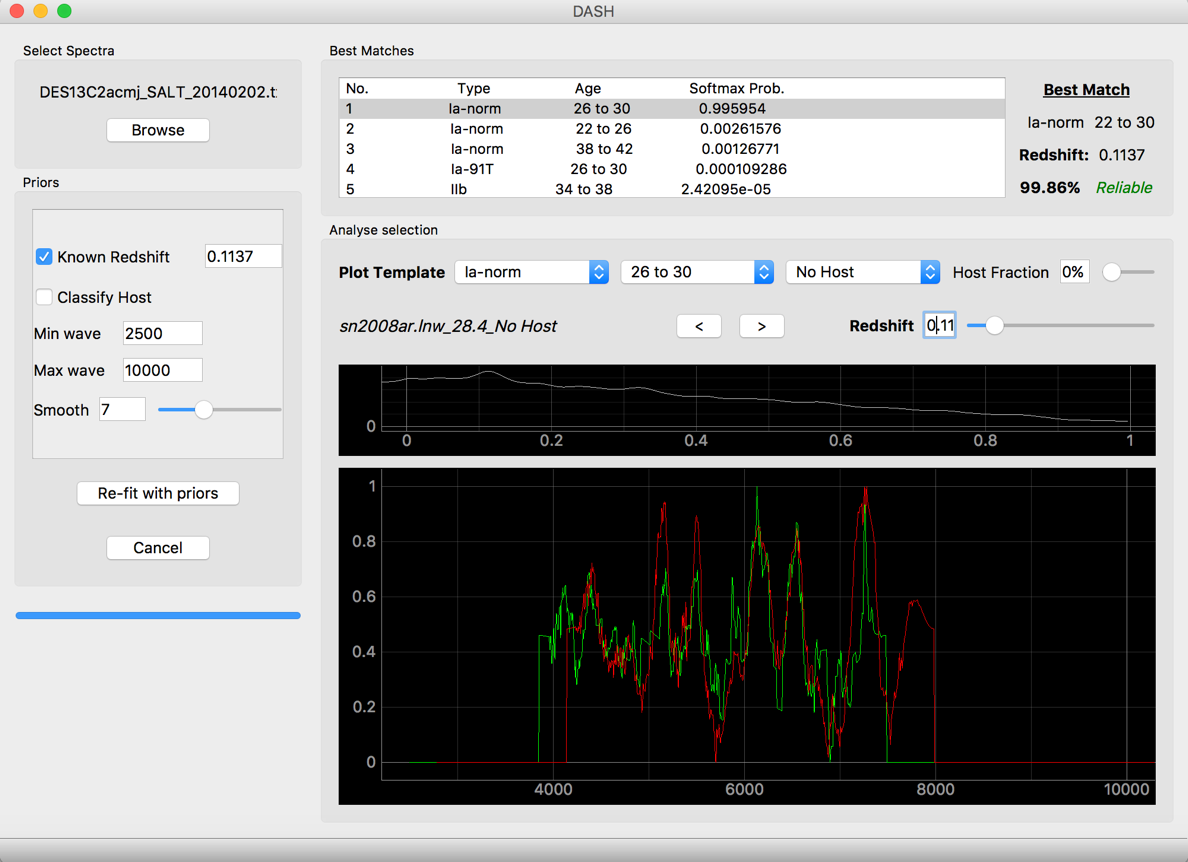
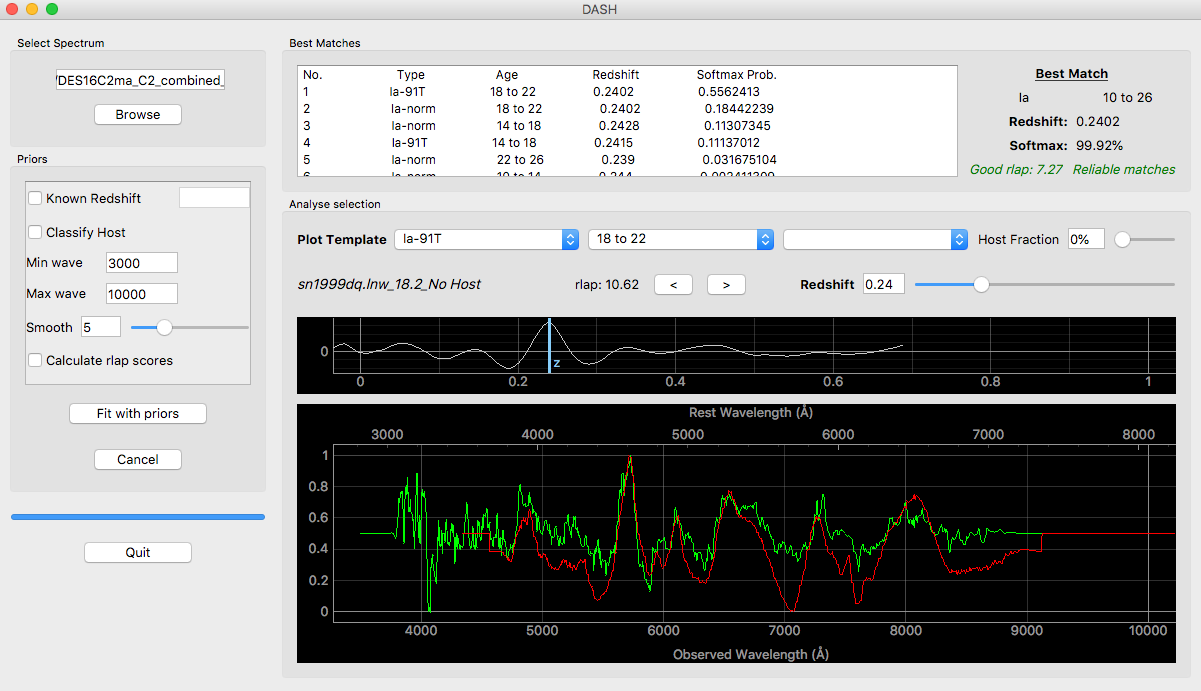
Updated GUI Screenshot in docs. Minor changes to plotting of paper preprocessing figures in sn_processing.py.

diff --git a/astrodash/sn_processing.py b/astrodash/sn_processing.py
@@ -46,13 +46,13 @@ class PreProcessing(object):
         wavelengthDensity = (max(self.wave) - min(self.wave)) / len(self.wave)
         filterSize = int(self.wDensity / wavelengthDensity * smooth / 2) * 2 + 1
         preFiltered = medfilt(self.flux, kernel_size=filterSize)
-        wave, flux = self.readSpectrumFile.two_col_input_spectrum(self.wave, preFiltered, z)
+        wave, deredshifted = self.readSpectrumFile.two_col_input_spectrum(self.wave, preFiltered, z)
         if len(wave) < 2:
             sys.exit("The redshifted spectrum of file: {0} is out of the classification range between {1} to {2} "
                      "Angstroms. Please remove this file from classification or reduce the redshift before re-running "
                      "the program.".format(self.filename, self.w0, self.w1))
 
-        binnedwave, binnedflux, minIndex, maxIndex = self.preProcess.log_wavelength(wave, flux)
+        binnedwave, binnedflux, minIndex, maxIndex = self.preProcess.log_wavelength(wave, deredshifted)
         newflux, continuum = self.preProcess.continuum_removal(binnedwave, binnedflux, self.numSplinePoints, minIndex, maxIndex)
         meanzero = self.preProcess.mean_zero(newflux, minIndex, maxIndex)
         apodized = self.preProcess.apodize(meanzero, minIndex, maxIndex)
@@ -71,49 +71,53 @@ class PreProcessing(object):
         # plt.plot(self.wave, self.flux, label='Raw', linewidth=1.3)
         # plt.plot(self.wave, preFiltered, label='Filtered', linewidth=1.3)
         # plt.ylim(-8, 8)
-        # plt.xlabel('Wavelength ($\mathrm{\AA}$)', fontsize=13)
-        # plt.ylabel('Relative Flux', fontsize=13)
-        # plt.legend(fontsize=11, loc=1)
+        # plt.xlabel('Wavelength ($\mathrm{\AA}$)', fontsize=14)
+        # plt.ylabel('Relative Flux', fontsize=14)
+        # plt.legend(fontsize=12, loc=1)
         # plt.xlim(2500, 9000)
+        # plt.tick_params(labelsize=13)
         # plt.tight_layout()
         # plt.axhline(0, color='black', linewidth=0.5)
-        # plt.savefig('/Users/danmuth/OneDrive/Documents/DASH/Paper/Figures/Filtering.png')
+        # plt.savefig('/Users/danmuth/OneDrive/Documents/DASH/Paper/Figures/Filtering.pdf')
         #
         # plt.figure(num=2, figsize=(10, 6))
-        # plt.plot(self.wave, preFiltered, label='Filtered', linewidth=1.3)
-        # plt.plot(binnedwave, binnedflux, label='De-redshifted and log-wavelength binned', linewidth=1.3)
-        # plt.xlabel('Wavelength ($\mathrm{\AA}$)', fontsize=13)
-        # plt.ylabel('Relative Flux', fontsize=13)
-        # plt.legend(fontsize=11, loc=1)
+        # plt.plot(wave, deredshifted, label='De-redshifted', linewidth=1.3)
+        # plt.plot(binnedwave, binnedflux, label='Log-wavelength binned', linewidth=1.3)
+        # plt.xlabel('Wavelength ($\mathrm{\AA}$)', fontsize=14)
+        # plt.ylabel('Relative Flux', fontsize=14)
+        # plt.legend(fontsize=12, loc=1)
         # plt.xlim(2500, 9000)
+        # plt.tick_params(labelsize=13)
         # plt.tight_layout()
         # plt.axhline(0, color='black', linewidth=0.5)
-        # plt.savefig('/Users/danmuth/OneDrive/Documents/DASH/Paper/Figures/Deredshifting.png')
+        # plt.savefig('/Users/danmuth/OneDrive/Documents/DASH/Paper/Figures/Deredshifting.pdf')
         #
         # plt.figure(num=3, figsize=(10, 6))
         # plt.plot(binnedwave, binnedflux, label='Log-wavelength binned', linewidth=1.3)
         # plt.plot(binnedwave, continuum, label='Continuum', linewidth=1.3)
-        # plt.plot(binnedwave, newflux, label='Continuum subtracted', linewidth=1.3)
-        # plt.xlabel('Wavelength ($\mathrm{\AA}$)', fontsize=13)
-        # plt.ylabel('Relative Flux', fontsize=13)
-        # plt.legend(fontsize=11, loc=1)
+        # plt.plot(binnedwave, newflux, label='Continuum divided', linewidth=1.3)
+        # plt.xlabel('Wavelength ($\mathrm{\AA}$)', fontsize=14)
+        # plt.ylabel('Relative Flux', fontsize=14)
+        # plt.legend(fontsize=12, loc=1)
         # plt.xlim(2500, 9000)
+        # plt.tick_params(labelsize=13)
         # plt.tight_layout()
         # plt.axhline(0, color='black', linewidth=0.5)
-        # plt.savefig('/Users/danmuth/OneDrive/Documents/DASH/Paper/Figures/Continuum.png')
+        # plt.savefig('/Users/danmuth/OneDrive/Documents/DASH/Paper/Figures/Continuum.pdf')
         #
         # plt.figure(num=4, figsize=(10, 6))
-        # plt.plot(binnedwave, newflux, label='Continuum subtracted', linewidth=1.3)
+        # plt.plot(binnedwave, meanzero, label='Continuum divided', linewidth=1.3)
         # plt.plot(binnedwave, apodized, label='Apodized', linewidth=1.3)
-        # fluxNorm = (apodized - min(apodized)) / (max(apodized) - min(apodized))
+        # # fluxNorm = (apodized - min(apodized)) / (max(apodized) - min(apodized))
         # plt.plot(binnedwave, fluxNorm, label='Normalised', linewidth=1.3)
-        # plt.xlabel('Wavelength ($\mathrm{\AA}$)', fontsize=13)
-        # plt.ylabel('Relative Flux', fontsize=13)
-        # plt.legend(fontsize=11, loc=1)
+        # plt.xlabel('Wavelength ($\mathrm{\AA}$)', fontsize=14)
+        # plt.ylabel('Relative Flux', fontsize=14)
+        # plt.legend(fontsize=12, loc=1)
         # plt.xlim(2500, 9000)
+        # plt.tick_params(labelsize=13)
         # plt.tight_layout()
         # plt.axhline(0, color='black', linewidth=0.5)
-        # plt.savefig('/Users/danmuth/OneDrive/Documents/DASH/Paper/Figures/Apodize.png')
+        # plt.savefig('/Users/danmuth/OneDrive/Documents/DASH/Paper/Figures/Apodize.pdf')
         #
         # plt.show()
 
@@ -121,6 +125,6 @@ class PreProcessing(object):
 
 
 
-# fData = '/Users/danmuth/PycharmProjects/DASH/templates/OzDES_data/ATEL_9570_Run25/DES16C2ma_C2_combined_160926_v10_b00.dat'
-# preData = PreProcessing(fData, 2500, 10000, 1024)
-# waveData,fluxData,minIData,maxIData = preData.two_column_data(0.24, 5, 2500, 10000)
+# fData = '/Users/danmuth/PycharmProjects/astrodash/templates/OzDES_data/ATEL_9570_Run25/DES16C2ma_C2_combined_160926_v10_b00.dat'
+# preData = PreProcessing(fData, 3000, 10000, 1024)
+# waveData,fluxData,minIData,maxIData,z = preData.two_column_data(0.24, 5, 3000, 10000)

diff --git a/docs/usage.rst b/docs/usage.rst
@@ -31,7 +31,10 @@ There are three ways to open the graphical interface:
 
 (Where $INSTALL_DIR is the directory where DASH has been installed.)
 
+If you want to quickly get started, try using an online spectrum from the open supernova catalog, by typeing something like 'osc-sn2002er-10' in the 'Select File' field, then click 'Re-fit'!
+
 .. image:: GUI_Screenshot.png
+
 
 Once the GUI is open you may follow these steps:
 
